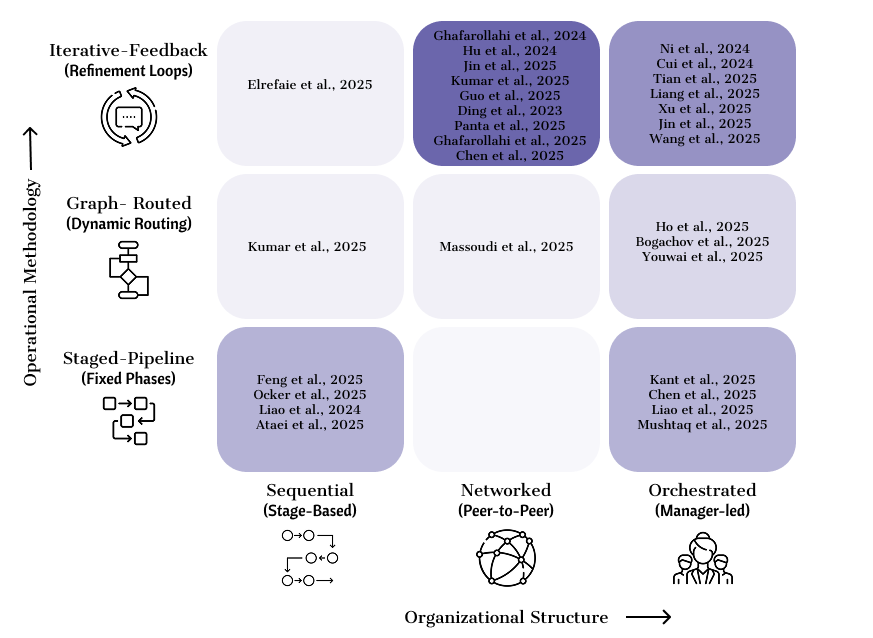
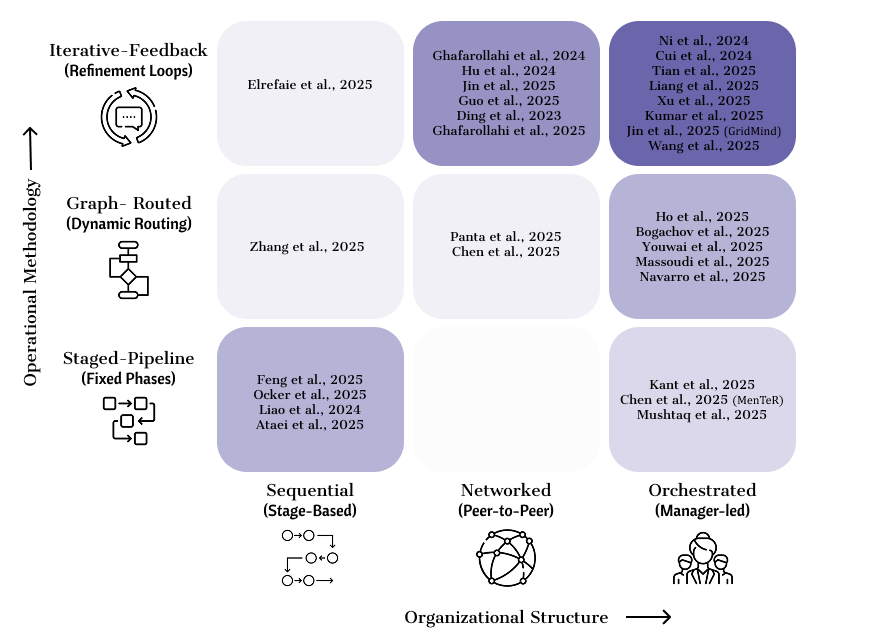
Add overview video and pipeline figure; update 3x3 figure; mark paper accepted

Changed region(s): [[0.4639, 0.0298, 0.9278, 0.7445], [0.4948, 0.3574, 0.6495, 0.4169], [0.2784, 0.3574, 0.433, 0.4169]]

diff --git a/index.html b/index.html
@@ -41,7 +41,7 @@
             <span class="author-block">Conrad Tucker</span>
           </div>
           <div class="is-size-6 affiliations">Carnegie Mellon University</div>
-          <div class="is-size-6 venue">Design Computing and Cognition (DCC) 2026 &nbsp;&middot;&nbsp; Under Review</div>
+          <div class="is-size-6 venue">Design Computing and Cognition (DCC) 2026 &nbsp;&middot;&nbsp; Accepted</div>
 
           <div class="column has-text-centered">
             <div class="publication-links">
@@ -86,6 +86,30 @@
           <p>This paper characterizes thirty MAS frameworks using 8 attributes, then develops a taxonomy reducing organizational structures to three types (Orchestrated, Networked, Sequential) and operational methodologies to three patterns (Iterative-Feedback, Graph-Routed, Staged-Pipeline). Mapping these categories to organizational design theory, we show that each architecture invokes specific mechanisms: Orchestrated systems face span of control constraints, Networked systems require common ground establishment, and Sequential systems depend on modularity principles, yet current implementations engage these concepts without leveraging organizational research. Analysis reveals substantial fragmentation, with implementations ranging from 2 to 22 agents using various orchestration platforms. Our taxonomy provides foundations for systematic comparison and principled agent team design.</p>
         </div>
       </div>
+    </div>
+  </div>
+</section>
+
+<!-- Approach -->
+<section class="section">
+  <div class="container is-max-desktop">
+    <h2 class="title is-3 has-text-centered">Approach</h2>
+    <p class="content has-text-centered has-text-grey">Our analytical pipeline: collect representative frameworks, characterize them along 8 attributes, reduce to a 3x3 taxonomy, and map to organizational design theory.</p>
+    <div class="has-text-centered mt-4">
+      <img src="./static/images/flowchart.png" alt="Analytical pipeline from data collection through attribute identification, taxonomy development, and organizational design theory mapping" style="max-width: 92%; height: auto;">
+    </div>
+  </div>
+</section>
+
+<!-- Video -->
+<section class="section" style="background-color:#fafafa;">
+  <div class="container is-max-desktop">
+    <h2 class="title is-3 has-text-centered">Video</h2>
+    <div class="has-text-centered mt-4">
+      <video controls preload="metadata" style="max-width: 100%; border-radius: 10px; border: 1px solid #ededed;">
+        <source src="./static/oia_video.mp4" type="video/mp4">
+        Your browser does not support the video tag.
+      </video>
     </div>
   </div>
 </section>
@@ -196,7 +220,7 @@
   author    = {Ezemba, Jessica and McComb, Christopher and Tucker, Conrad},
   booktitle = {Design Computing and Cognition (DCC)},
   year      = {2026},
-  note      = {Under review}
+  note      = {Accepted}
 }</pre>
     </div>
   </div>